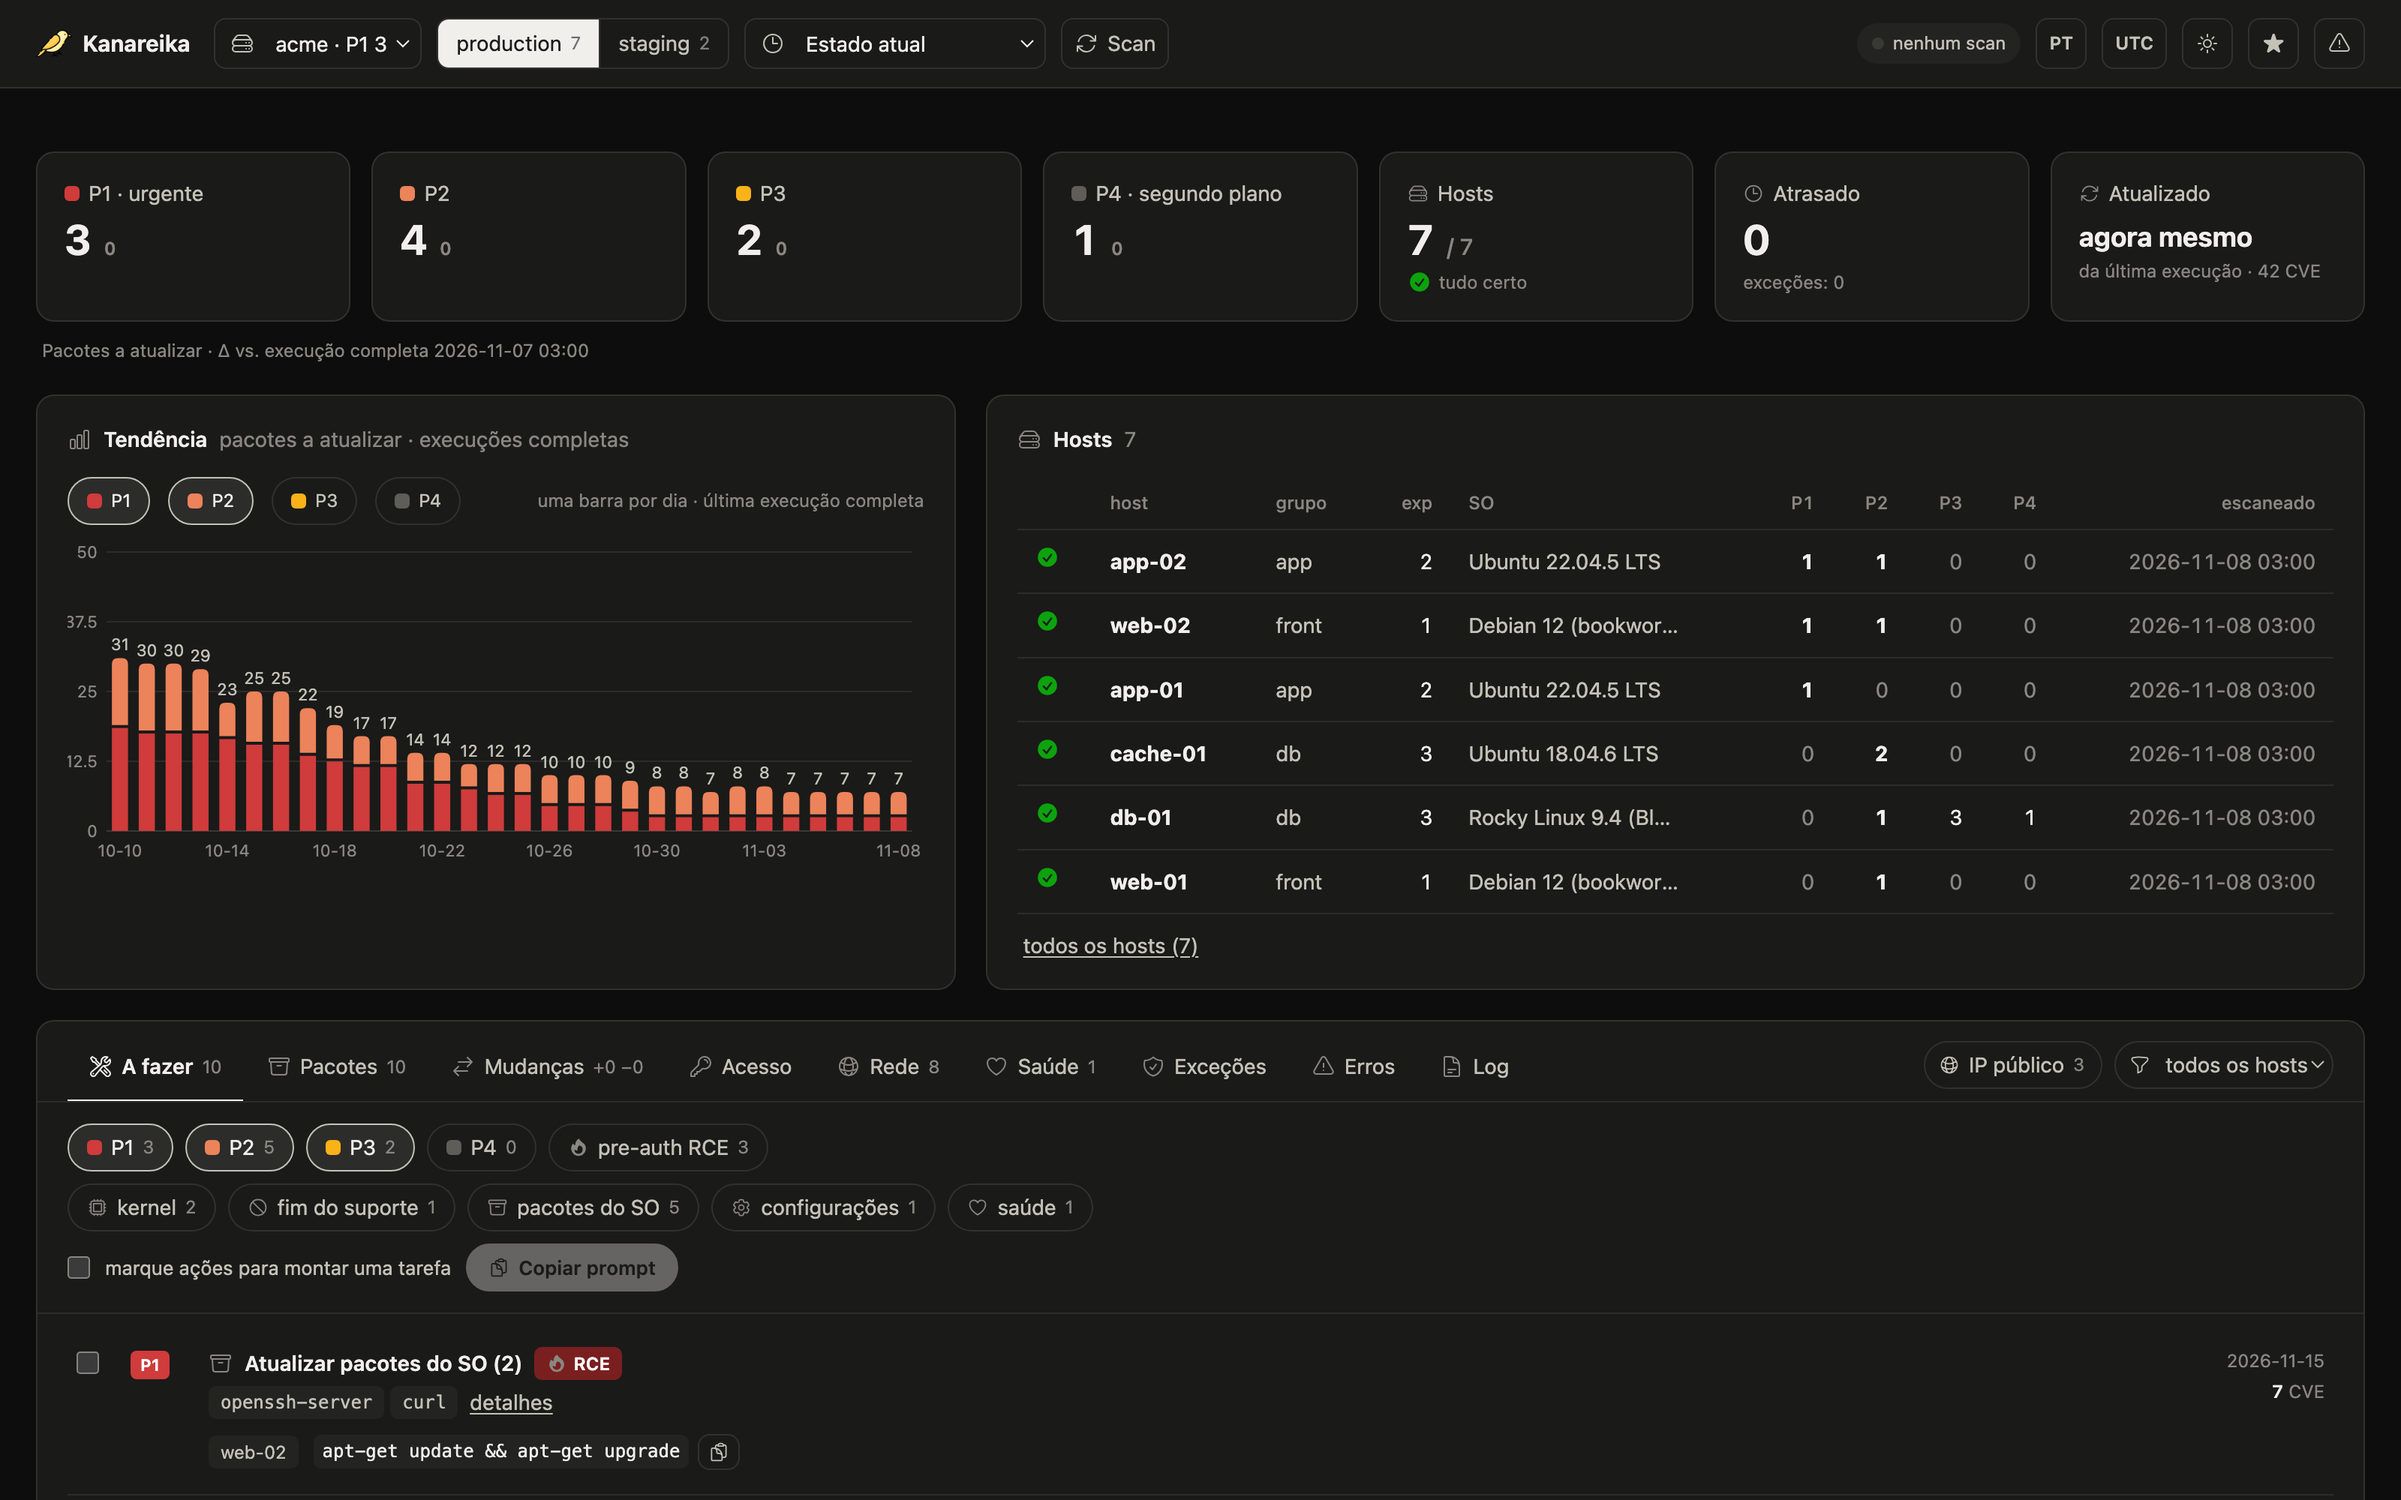
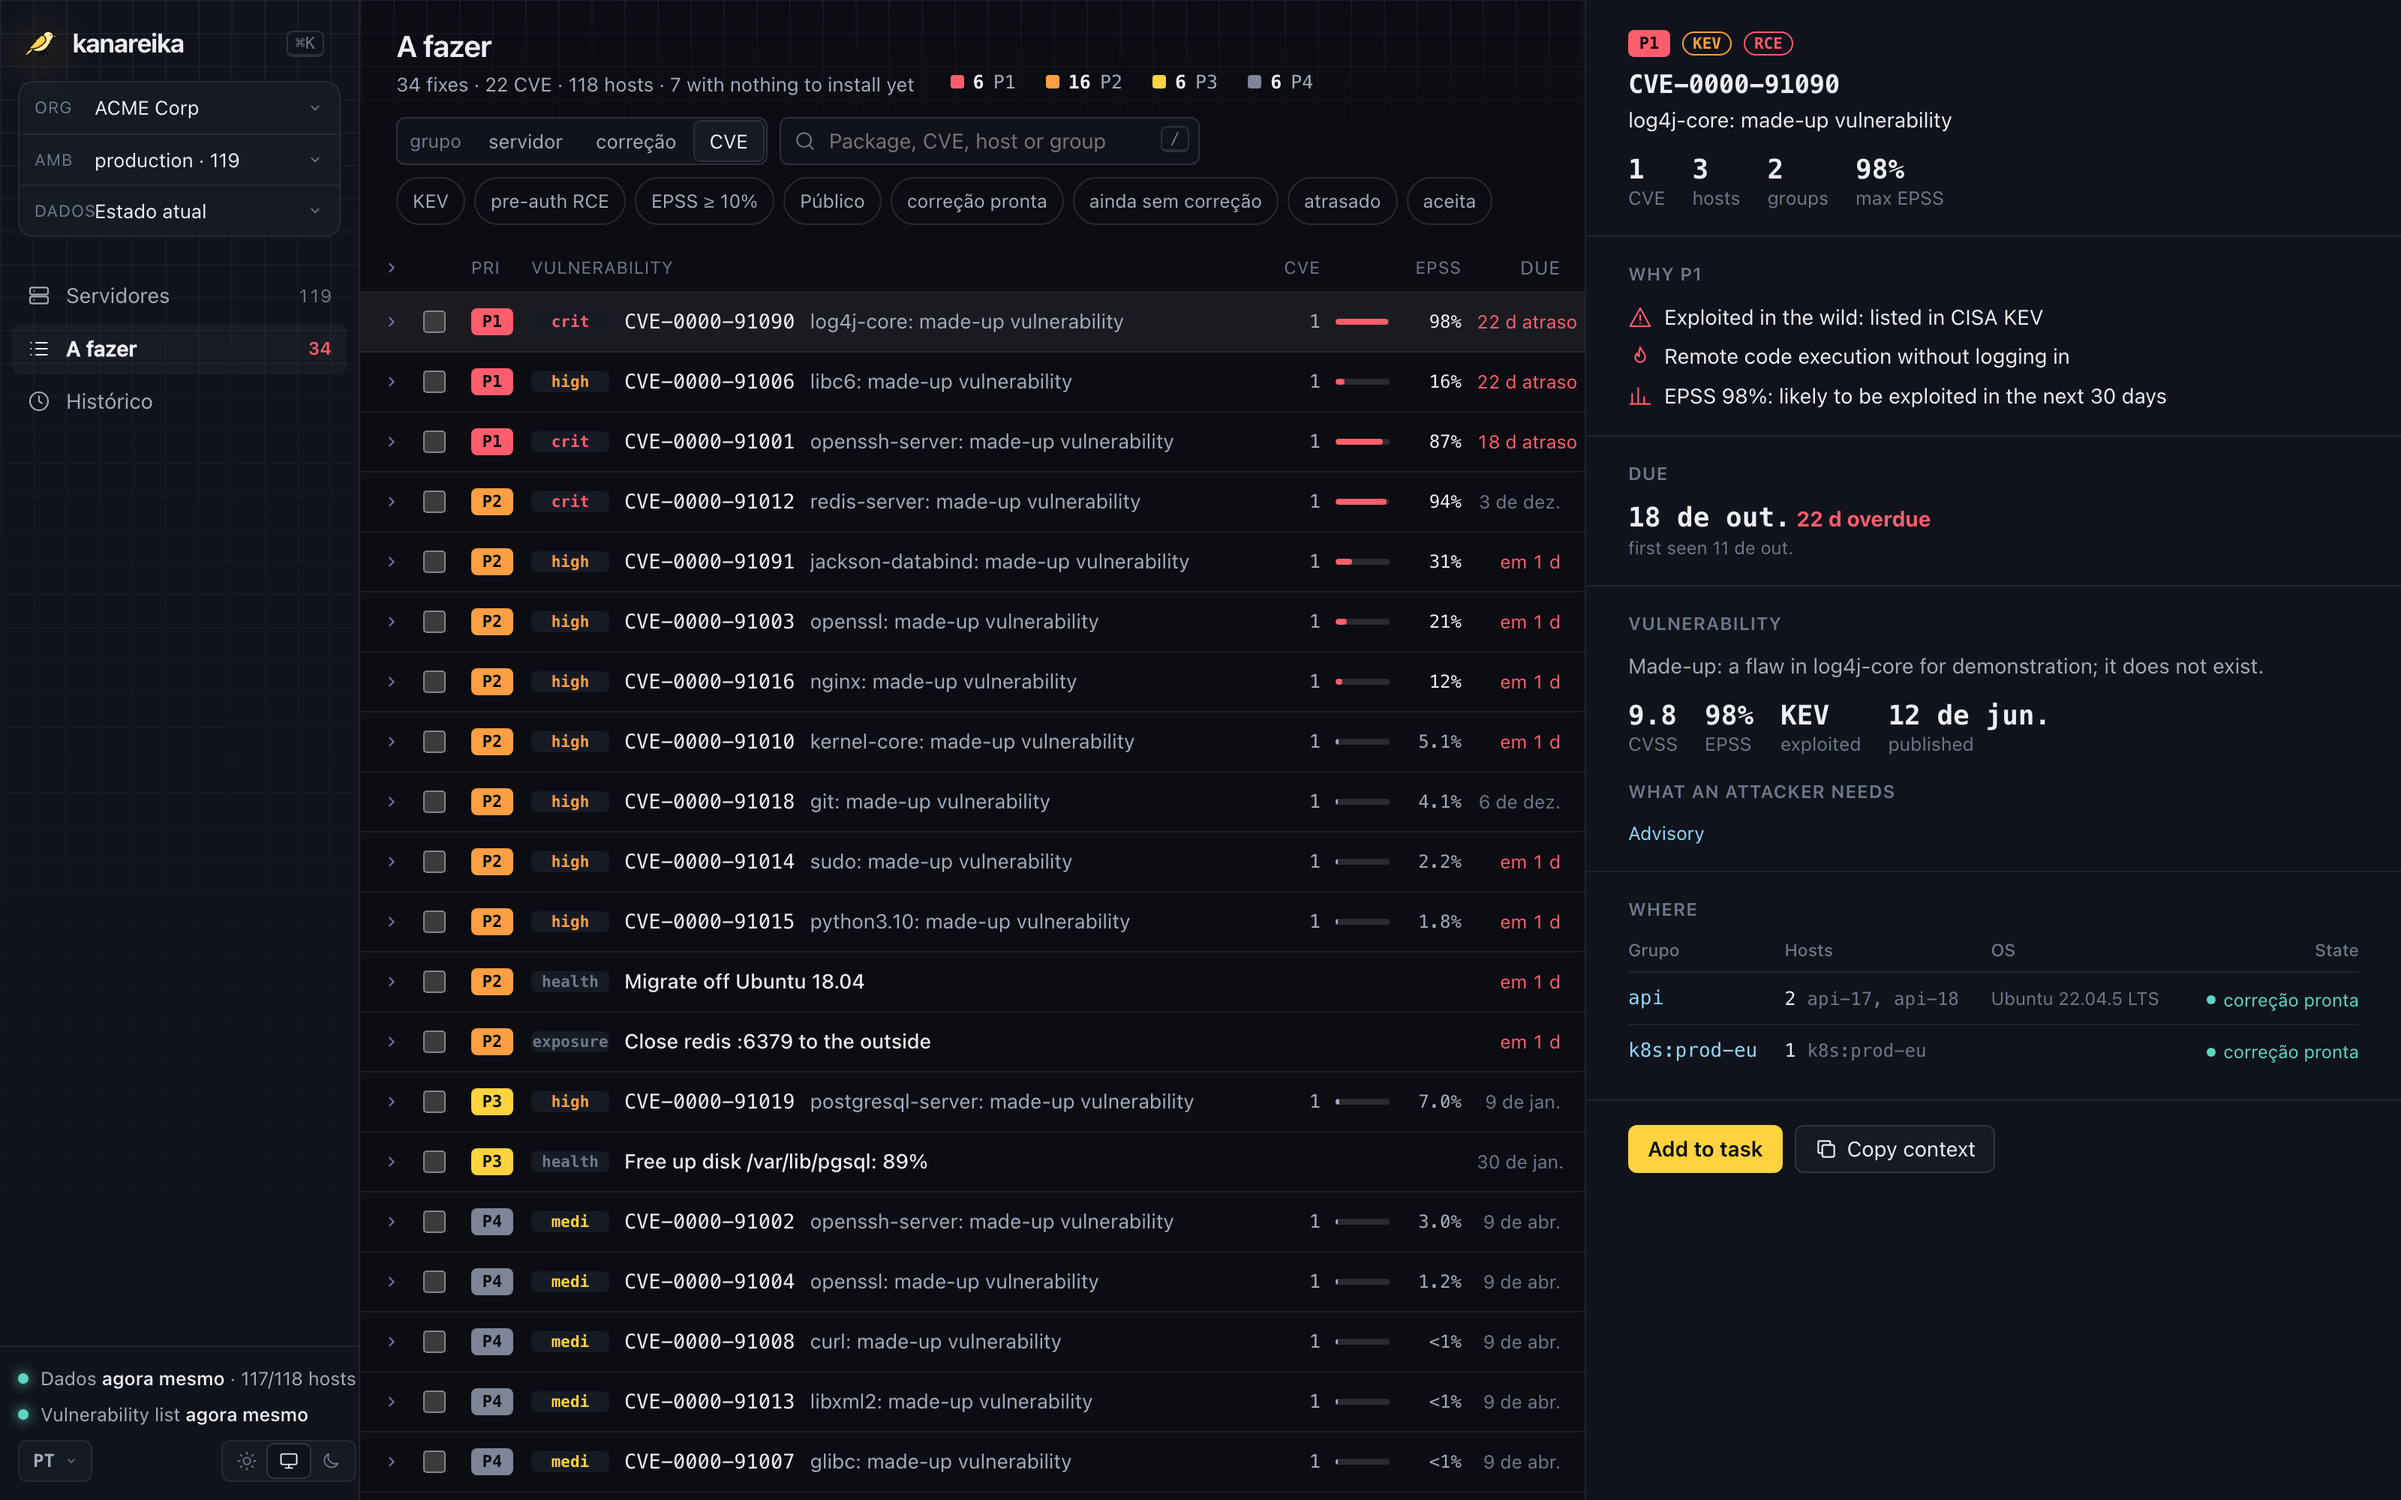
docs: README screenshots grouped by CVE, the web one in the reader's theme (picture, dark and light); ToDo takes ?by= from the address; Public everywhere; the sidebar status on one line

diff --git a/assets/web/index.html b/assets/web/index.html
@@ -76,6 +76,7 @@ nav.nav { padding: 10px 8px; display: grid; gap: 1px; overflow: auto; }
 .nav hr { border: 0; border-top: 1px solid var(--line); margin: 8px 2px; }
 .status { margin-top: auto; padding: 12px; border-top: 1px solid var(--line); display: grid; gap: 8px; font-size: 12.5px; }
 .status .row { display: flex; align-items: center; gap: 8px; color: var(--ink-2); }
+.status .row > span:last-child { min-width: 0; white-space: nowrap; overflow: hidden; text-overflow: ellipsis; } /* one line in every language */
 .status .row b { color: var(--ink); font-weight: 550; }
 .status .dot { background: var(--ok); box-shadow: 0 0 8px var(--ok); }
 .dot { width: 7px; height: 7px; border-radius: 50%; background: var(--ok); flex: none; }
@@ -998,7 +999,7 @@ function mainText(n) {
     case "where": return `<span class="ttl" style="color:var(--ink)">${esc(n.label)}</span>`;
     case "cve": return `<span class="cveid">${esc(n.label)}</span><span class="ttl">${esc(n.title)}</span>`;
     case "group": return `<span class="hostn" style="color:var(--ink)">${esc(n.label)}</span><span class="kind">${n.hosts} ${t("hosts")}${n.os ? " · " + esc(n.os) : ""}</span>`;
-    case "host": return `<span class="hostn">${esc(n.label)}</span><span class="kind">${esc(n.os)}${n.exposure === 1 ? " · " + t("internet-facing") : ""}</span>`;
+    case "host": return `<span class="hostn">${esc(n.label)}</span><span class="kind">${esc(n.os)}${n.exposure === 1 ? " · " + t("Public") : ""}</span>`;
     case "other": return `<span class="pkg" style="font-weight:500">${esc(n.label)}</span>`;
     case "section": return `<span class="secl">${esc(n.label === "parts" ? t("inside the image") : t("runs on"))}</span>`;
   }
@@ -1050,7 +1051,7 @@ function counts() {
 function find(id, ns = S.tree?.nodes || []) { for (const n of ns) { if (n.id === id) return n; const k = find(id, n.kids || []); if (k) return k; } return null; }
 
 /* ---------- ToDo ---------- */
-const FILTERS = [["kev", "KEV"], ["rce", "pre-auth RCE"], ["epss", "EPSS ≥ 10%"], ["front", "internet-facing"], ["ready", "fix ready"], ["nofix", "no fix yet"], ["overdue", "overdue"]];
+const FILTERS = [["kev", "KEV"], ["rce", "pre-auth RCE"], ["epss", "EPSS ≥ 10%"], ["front", "Public"], ["ready", "fix ready"], ["nofix", "no fix yet"], ["overdue", "overdue"]];
 function todoShell() {
   return `<div class="work"><div class="listcol"><div class="work-top"><div class="hdr"><div><h1>${t("ToDo")}</h1><div class="sub" id="sub"></div></div>
       <div class="counts" id="counts"></div></div></div>
@@ -1727,7 +1728,7 @@ function hostDetail(rd, n) {
   const lis = (rows) => (rows.filter(Boolean).length ? `<div class="lis">${rows.filter(Boolean).join("")}</div>` : "");
   const denied = (x) => (x?.denied?.length ? li(MK.mut, `<span class="z">${t("no access to {what}", { what: esc(x.denied.map((d) => catMsg(deniedKey(d), d)).join(", ")) })}</span>`) : "");
   const pcs = ["P1", "P2", "P3", "P4"].filter((p) => c[p]).map((p) => `<span class="c${p}">${p} ${c[p]}</span>`).join(" <span class=\"z\">•</span> ");
-  const meta = [eh.address, f.os, eh.group && t("group {g}", { g: eh.group }), (eh.exposure === 1 || eh.public) && t("internet-facing")].filter(Boolean);
+  const meta = [eh.address, f.os, eh.group && t("group {g}", { g: eh.group }), (eh.exposure === 1 || eh.public) && t("Public")].filter(Boolean);
   const reboot = pk.some((p) => p.fix_state === "reboot");
   const sn = SRV.byName?.[n], probl = sn && ["failed", "partial", "not_scanned"].includes(sn.state) ? problemText(sn) : "";
   const scannedAt = sn?.last_scan || (s[0] === "mut" ? "" : last);
@@ -1851,7 +1852,8 @@ function syncURL(push) {
   const host = isData(S.view) ? (VS.item?.kind === "host" ? VS.item.name : VS.want || "") : S.view === "servers" ? S.cardHost || S.wantHost || "" : "";
   const tab = isData(S.view) ? VS.tab[S.view] : "";
   const show = S.view === "servers" && S.lens !== "priorities" ? S.lens : "", f = S.view === "todo" && S.accepted ? "accepted" : "";
-  const u = "/" + S.view + "?" + qs({ org: S.org, env: S.env, run: S.run !== "current" ? S.run : "", show, f, tab, host, lang: keep || "" });
+  const by = S.view === "todo" && S.by !== "fix" ? S.by : "";
+  const u = "/" + S.view + "?" + qs({ org: S.org, env: S.env, run: S.run !== "current" ? S.run : "", by, show, f, tab, host, lang: keep || "" });
   const cur = location.pathname + location.search;
   if (u.replace(/\?$/, "") !== cur) history[push ? "pushState" : "replaceState"](null, "", u.replace(/\?$/, ""));
 }
@@ -1866,6 +1868,7 @@ function readURL() {
   S.wantHost = S.view === "servers" ? p.get("host") || "" : "";
   S.lens = p.get("show") || "priorities";
   S.accepted = S.view === "todo" && p.get("f") === "accepted";
+  if (S.view === "todo" && ["fix", "cve"].includes(p.get("by"))) S.by = p.get("by"); // a link to a grouping
 }
 function go(view, push = true, q) {
   if (view !== S.view) { VS.q = ""; VS.flt.clear(); VS.all = false; VS.sel = ""; VS.item = null; VS.stack = []; VS.want = ""; S.cardHost = ""; if (isTree(view) && isTree(S.view)) { S.open.clear(); S.cur = null; S.q = ""; } }

diff --git a/tools/screenshots/shots_test.go b/tools/screenshots/shots_test.go
@@ -29,27 +29,30 @@ func fakeShots(t *testing.T) *[]string {
 	return &calls
 }
 
-// TestShots: a TUI and a web picture per language, at their sizes; the web page in the language, over the org
-// and environment, dark; the demo's trivy cache and feeds, times in UTC.
+// TestShots: per language a TUI picture and the web page's ToDo grouped by CVE, dark and light, at their sizes, in
+// the language, over the org and environment; the demo's trivy cache and feeds, times in UTC.
 func TestShots(t *testing.T) {
 	calls := fakeShots(t)
 	home, out := t.TempDir(), filepath.Join(t.TempDir(), "shots")
 	if err := shots(out, home, "", "acme", "production", "150x26", "2", "2026-11-07T12:00:00Z"); err != nil {
 		t.Fatal(err)
 	}
-	if len(*calls) != 2*len(i18n.Langs()) {
+	if len(*calls) != 3*len(i18n.Langs()) {
 		t.Fatalf("%d pictures", len(*calls))
 	}
 	tui, web := (*calls)[0], (*calls)[1]
 	if !strings.HasPrefix(tui, "chrome file:///") || !strings.Contains(tui, "tui-en.png 1207x472") {
 		t.Error(tui)
 	}
-	for _, want := range []string{"/?lang=en#env=production&org=acme", "web-en.png 1600x1000", "--force-dark-mode", "--virtual-time-budget="} {
+	for _, want := range []string{"/todo?by=cve&env=production&lang=en&org=acme", "web-en.png 1600x1000", "--force-dark-mode", "--virtual-time-budget="} {
 		if !strings.Contains(web, want) {
 			t.Errorf("%q not in %s", want, web)
 		}
 	}
-	if !strings.Contains(strings.Join(*calls, "\n"), "/?lang=ja#") {
+	if light := (*calls)[2]; !strings.Contains(light, "web-en-light.png 1600x1000") || strings.Contains(light, "--force-dark-mode") {
+		t.Error(light)
+	}
+	if !strings.Contains(strings.Join(*calls, "\n"), "lang=ja&") {
 		t.Error("no Japanese page")
 	}
 	if os.Getenv("TRIVY_CACHE_DIR") != filepath.Join(home, "trivy") || os.Getenv("TZ") != "UTC" {

diff --git a/tools/screenshots/shots.go b/tools/screenshots/shots.go
@@ -39,7 +39,7 @@ func tuiSize(cols, rows int) (int, int) {
 }
 
 // shots: the README's screenshots in every language: tui-<lang>.png (the frame of size after keys, as run
-// draws it) and web-<lang>.png (the page of `kanareika web` over the same directory, dark theme), in out.
+// draws it), web-<lang>.png and web-<lang>-light.png (ToDo of `kanareika web` grouped by CVE, dark and light), in out.
 // The directory is demo data (tools/demo): its trivy cache and feeds are used, not this machine's.
 func shots(out, home, bin, org, env, size, keys, at string) error {
 	if bin == "" {
@@ -84,9 +84,15 @@ func shots(out, home, bin, org, env, size, keys, at string) error {
 		if err := shot(bin, u, filepath.Join(out, "tui-"+lang+".png"), tuiW, tuiH); err != nil {
 			return err
 		}
-		where := url.Values{"org": {org}, "env": {env}}
-		if err := shot(bin, web.URL+"/?lang="+lang+"#"+where.Encode(), filepath.Join(out, "web-"+lang+".png"), webW, webH,
-			"--force-dark-mode", "--virtual-time-budget=10000"); err != nil {
+		// the web page grouped by CVE (the most telling view), in both themes: the README picks by the reader's theme
+		where := url.Values{"org": {org}, "env": {env}, "by": {"cve"}, "lang": {lang}}
+		page2 := web.URL + "/todo?" + where.Encode()
+		if err := shot(bin, page2, filepath.Join(out, "web-"+lang+".png"), webW, webH,
+			"--force-dark-mode", "--blink-settings=preferredColorScheme=0", "--virtual-time-budget=10000"); err != nil {
+			return err
+		}
+		if err := shot(bin, page2, filepath.Join(out, "web-"+lang+"-light.png"), webW, webH,
+			"--blink-settings=preferredColorScheme=1", "--virtual-time-budget=10000"); err != nil {
 			return err
 		}
 	}

diff --git a/docs/readme/README.es.md b/docs/readme/README.es.md
@@ -20,7 +20,7 @@ Ejecute `kanareika`. Se abre en «Por hacer»: lo que hay que corregir primero, 
 
 Ejecute `kanareika web` para ver los mismos datos en el navegador, con la tendencia de las últimas 30 ejecuciones.
 
-![Datos de demostración, inventados.](../screenshots/web-es.png)
+<picture><source media="(prefers-color-scheme: dark)" srcset="../screenshots/web-es.png"><img alt="Datos de demostración, inventados." src="../screenshots/web-es-light.png"></picture>
 
 <sub>Datos de demostración, inventados.</sub>
 

diff --git a/docs/readme/README.pt.md b/docs/readme/README.pt.md
@@ -20,7 +20,7 @@ Execute `kanareika`. Ele abre na lista “A fazer”: o que corrigir primeiro, o
 
 Execute `kanareika web` para ver os mesmos dados no navegador, com a tendência das últimas 30 execuções.
 
-![Dados de demonstração, fictícios.](../screenshots/web-pt.png)
+<picture><source media="(prefers-color-scheme: dark)" srcset="../screenshots/web-pt.png"><img alt="Dados de demonstração, fictícios." src="../screenshots/web-pt-light.png"></picture>
 
 <sub>Dados de demonstração, fictícios.</sub>
 

diff --git a/docs/readme/README.fr.md b/docs/readme/README.fr.md
@@ -20,7 +20,7 @@ Lancez `kanareika`. Il s'ouvre sur « À faire » : ce qu'il faut corriger en pr
 
 Lancez `kanareika web` pour retrouver les mêmes données dans un navigateur, avec la tendance des 30 dernières exécutions.
 
-![Données de démo, fictives.](../screenshots/web-fr.png)
+<picture><source media="(prefers-color-scheme: dark)" srcset="../screenshots/web-fr.png"><img alt="Données de démo, fictives." src="../screenshots/web-fr-light.png"></picture>
 
 <sub>Données de démo, fictives.</sub>
 

diff --git a/docs/readme/README.ja.md b/docs/readme/README.ja.md
@@ -20,7 +20,7 @@
 
 `kanareika web` を実行すると、同じデータをブラウザで確認できます。直近 30 回の実行の推移も表示されます。
 
-![デモデータ (架空のもの)。](../screenshots/web-ja.png)
+<picture><source media="(prefers-color-scheme: dark)" srcset="../screenshots/web-ja.png"><img alt="デモデータ (架空のもの)。" src="../screenshots/web-ja-light.png"></picture>
 
 <sub>デモデータ (架空のもの)。</sub>
 

diff --git a/README.md b/README.md
@@ -20,7 +20,7 @@ Run `kanareika`. It opens on ToDo: what to fix first, most urgent at the top.
 
 Run `kanareika web` for the same data in a browser, with the trend of the last 30 runs.
 
-![Demo data, made up.](docs/screenshots/web-en.png)
+<picture><source media="(prefers-color-scheme: dark)" srcset="docs/screenshots/web-en.png"><img alt="Demo data, made up." src="docs/screenshots/web-en-light.png"></picture>
 
 <sub>Demo data, made up.</sub>
 

diff --git a/docs/readme/README.ko.md b/docs/readme/README.ko.md
@@ -20,7 +20,7 @@
 
 `kanareika web`을 실행하면 같은 데이터를 브라우저에서 최근 30회 실행 추이와 함께 볼 수 있습니다.
 
-![데모 데이터(가상).](../screenshots/web-ko.png)
+<picture><source media="(prefers-color-scheme: dark)" srcset="../screenshots/web-ko.png"><img alt="데모 데이터(가상)." src="../screenshots/web-ko-light.png"></picture>
 
 <sub>데모 데이터(가상).</sub>
 

diff --git a/docs/readme/README.zh.md b/docs/readme/README.zh.md
@@ -20,7 +20,7 @@
 
 运行 `kanareika web`：在浏览器中查看相同的数据，以及最近 30 次运行的趋势。
 
-![演示数据，均为虚构。](../screenshots/web-zh.png)
+<picture><source media="(prefers-color-scheme: dark)" srcset="../screenshots/web-zh.png"><img alt="演示数据，均为虚构。" src="../screenshots/web-zh-light.png"></picture>
 
 <sub>演示数据，均为虚构。</sub>
 
